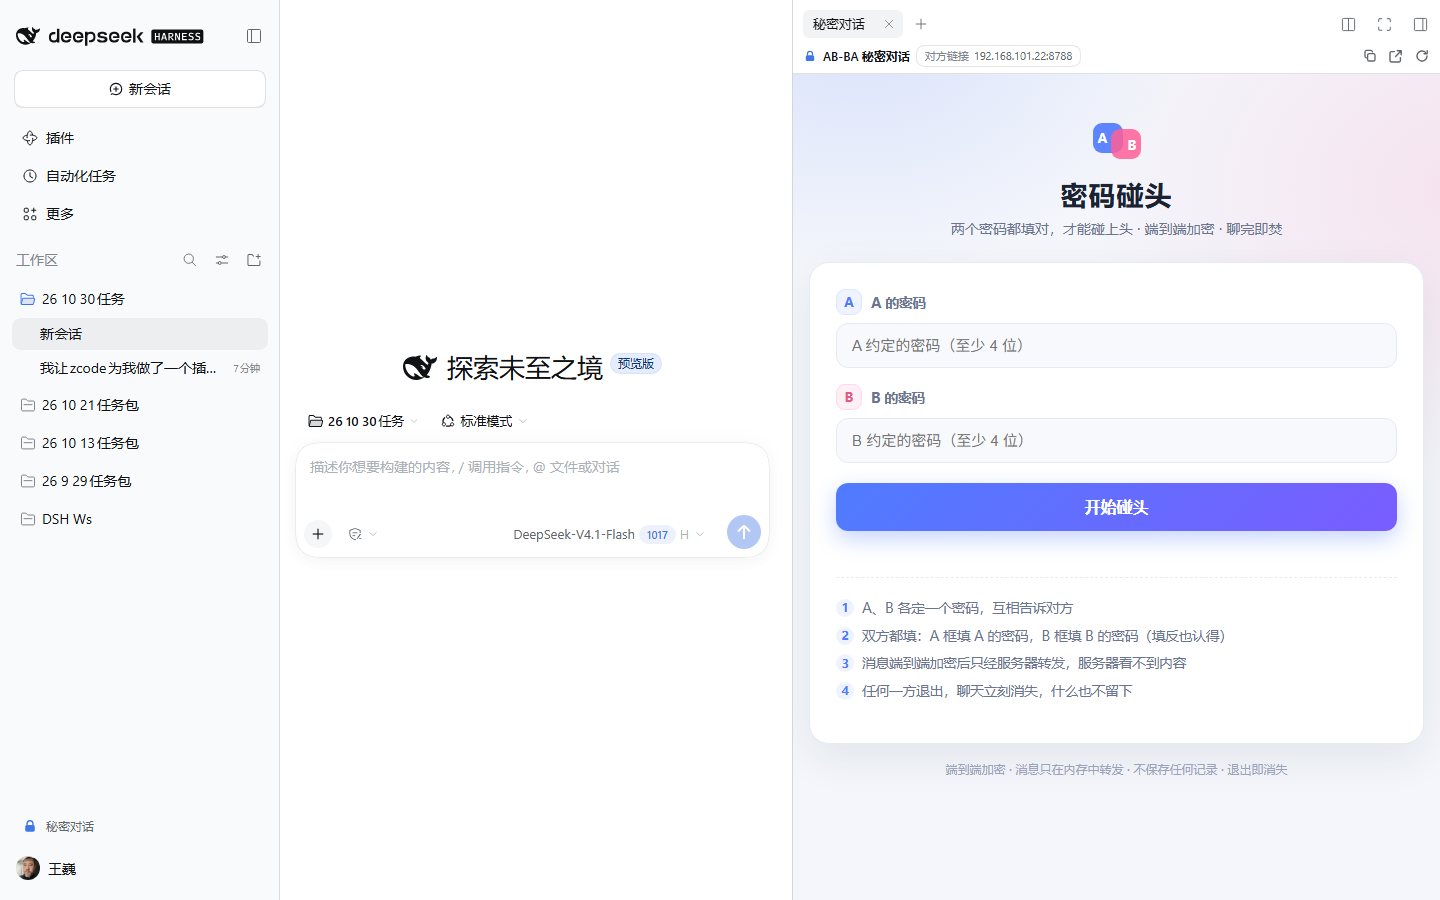
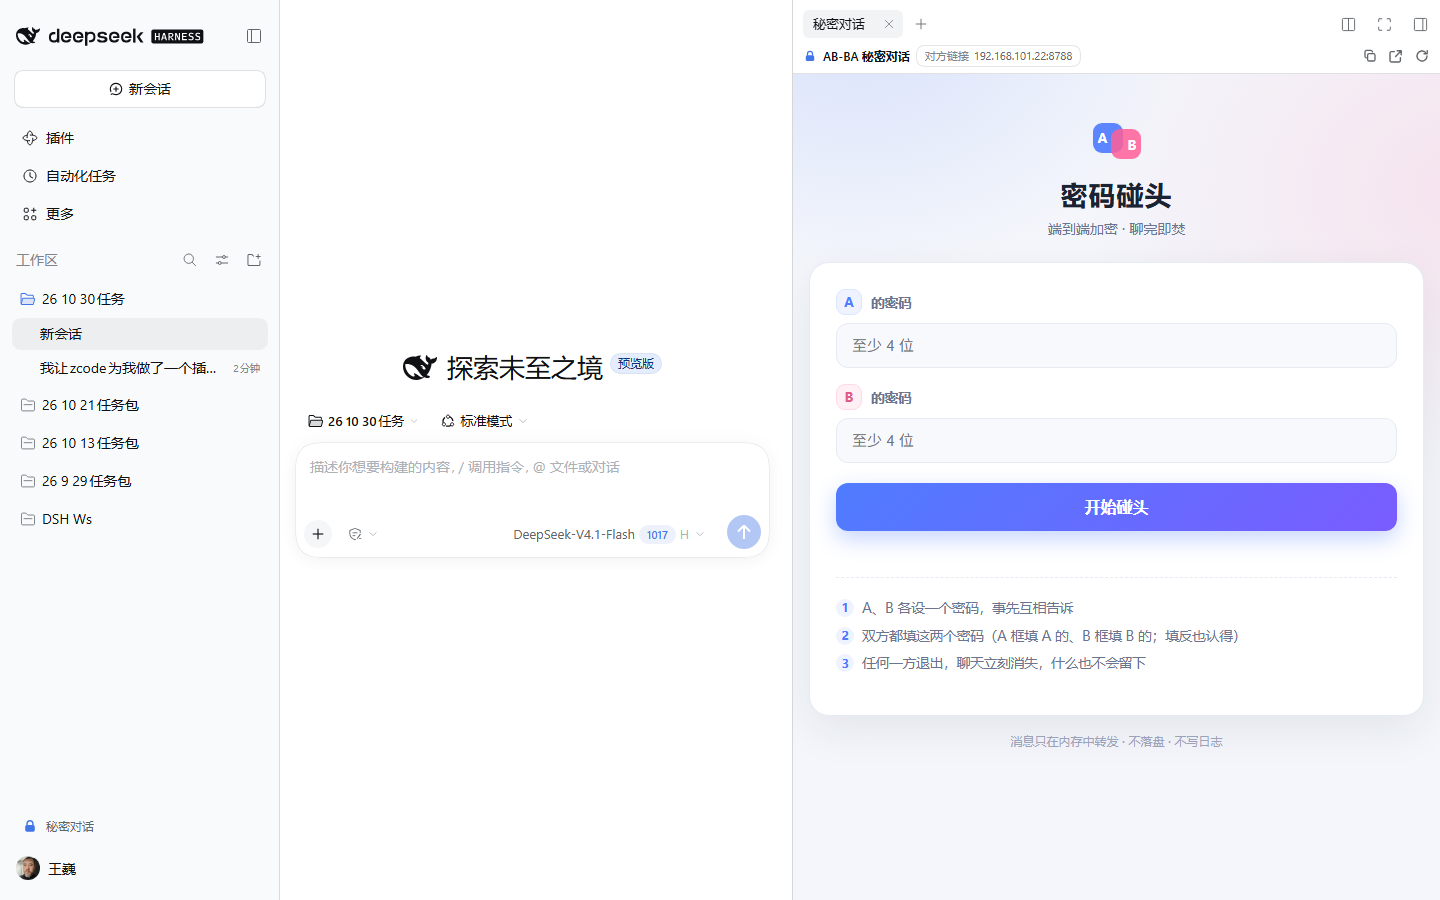
fix(ui): simplify password field labels and start-page copy; v0.2.1

diff --git a/assets/index.html b/assets/index.html
@@ -147,26 +147,25 @@ footer{text-align:center;color:#9aa3ba;font-size:12px;margin-top:18px}
       </svg>
     </div>
     <h1>密码碰头</h1>
-    <p class="sub">两个密码都填对，才能碰上头 · 端到端加密 · 聊完即焚</p>
+    <p class="sub">端到端加密 · 聊完即焚</p>
   </header>
 
   <!-- 开始页 -->
   <section id="screen-start" class="card">
     <div class="field">
-      <div class="field-head"><span class="badge badge-a">A</span><label for="pwd-a">A 的密码</label></div>
-      <input id="pwd-a" type="password" placeholder="A 约定的密码（至少 4 位）" autocomplete="off" spellcheck="false" maxlength="128">
+      <div class="field-head"><span class="badge badge-a">A</span><label for="pwd-a">的密码</label></div>
+      <input id="pwd-a" type="password" placeholder="至少 4 位" aria-label="A 的密码" autocomplete="off" spellcheck="false" maxlength="128">
     </div>
     <div class="field">
-      <div class="field-head"><span class="badge badge-b">B</span><label for="pwd-b">B 的密码</label></div>
-      <input id="pwd-b" type="password" placeholder="B 约定的密码（至少 4 位）" autocomplete="off" spellcheck="false" maxlength="128">
+      <div class="field-head"><span class="badge badge-b">B</span><label for="pwd-b">的密码</label></div>
+      <input id="pwd-b" type="password" placeholder="至少 4 位" aria-label="B 的密码" autocomplete="off" spellcheck="false" maxlength="128">
     </div>
     <button id="btn-start">开始碰头</button>
     <p id="start-err" class="err"></p>
     <div class="rules">
-      <p><span class="n">1</span><span>A、B 各定一个密码，互相告诉对方</span></p>
-      <p><span class="n">2</span><span>双方都填：A 框填 A 的密码，B 框填 B 的密码（填反也认得）</span></p>
-      <p><span class="n">3</span><span>消息端到端加密后只经服务器转发，服务器看不到内容</span></p>
-      <p><span class="n">4</span><span>任何一方退出，聊天立刻消失，什么也不留下</span></p>
+      <p><span class="n">1</span><span>A、B 各设一个密码，事先互相告诉</span></p>
+      <p><span class="n">2</span><span>双方都填这两个密码（A 框填 A 的、B 框填 B 的；填反也认得）</span></p>
+      <p><span class="n">3</span><span>任何一方退出，聊天立刻消失，什么也不会留下</span></p>
     </div>
     <p id="last-end" class="notice"></p>
   </section>
@@ -211,7 +210,7 @@ footer{text-align:center;color:#9aa3ba;font-size:12px;margin-top:18px}
     </form>
   </section>
 
-  <footer>端到端加密 · 消息只在内存中转发 · 不保存任何记录 · 退出即消失</footer>
+  <footer>消息只在内存中转发 · 不落盘 · 不写日志</footer>
 </div>
 
 <!-- 图片放大查看层 -->
